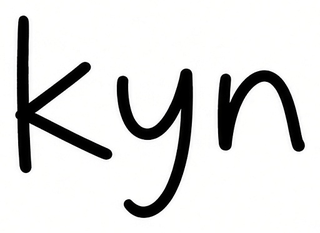
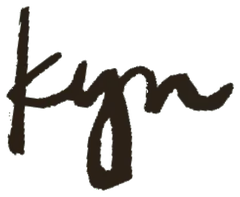
Swap the thank-you header to withkyndall in New Pixel.
Also lowercase the subject, use a blue heart, and drop in the cropped handwritten kyn.

Changed region(s): [[0.0292, 0.0305, 0.9917, 0.9746]]

diff --git a/src/lib/emails.ts b/src/lib/emails.ts
@@ -45,7 +45,7 @@ const BODY =
 
 export function wrapBuyerEmail(mail: BuyerMail) {
   const site = SITE.url.replace(/\/$/, "") || "https://bykyndall.com";
-  const mark = assetUrl("/email/k-mark.png");
+  const mark = assetUrl("/email/withkyndall.png");
   const signature = assetUrl("/email/kyn-sign.png");
   const kicker = mail.kicker
     ? `<p style="${BODY}">${escapeHtml(mail.kicker)}</p>`
@@ -83,7 +83,7 @@ export function wrapBuyerEmail(mail: BuyerMail) {
           <tr>
             <td align="center" style="padding:0 0 56px;">
               <a href="${site}" style="text-decoration:none;">
-                <img src="${mark}" width="48" height="48" alt="kyndall" style="display:block;border:0;width:48px;height:48px;">
+                <img src="${mark}" width="196" height="51" alt="withkyndall" style="display:block;border:0;width:196px;height:auto;">
               </a>
             </td>
           </tr>
@@ -93,7 +93,7 @@ export function wrapBuyerEmail(mail: BuyerMail) {
               ${headline}
               ${paragraphs}
               ${signoff}
-              <img src="${signature}" width="148" height="108" alt="kyn" style="display:block;border:0;margin:28px 0 0;width:148px;height:auto;">
+              <img src="${signature}" width="86" height="71" alt="kyn" style="display:block;border:0;margin:18px 0 0;width:86px;height:auto;">
             </td>
           </tr>
         </table>
@@ -153,7 +153,7 @@ export function buyerPaidMail(input: {
 
   if (presale && guide) {
     return {
-      subject: "Thank you for your purchase 💛",
+      subject: "thank you for your purchase 💙",
       preview: "it goes live september 30th. you'll get it in your inbox.",
       paragraphs: [
         hey,
